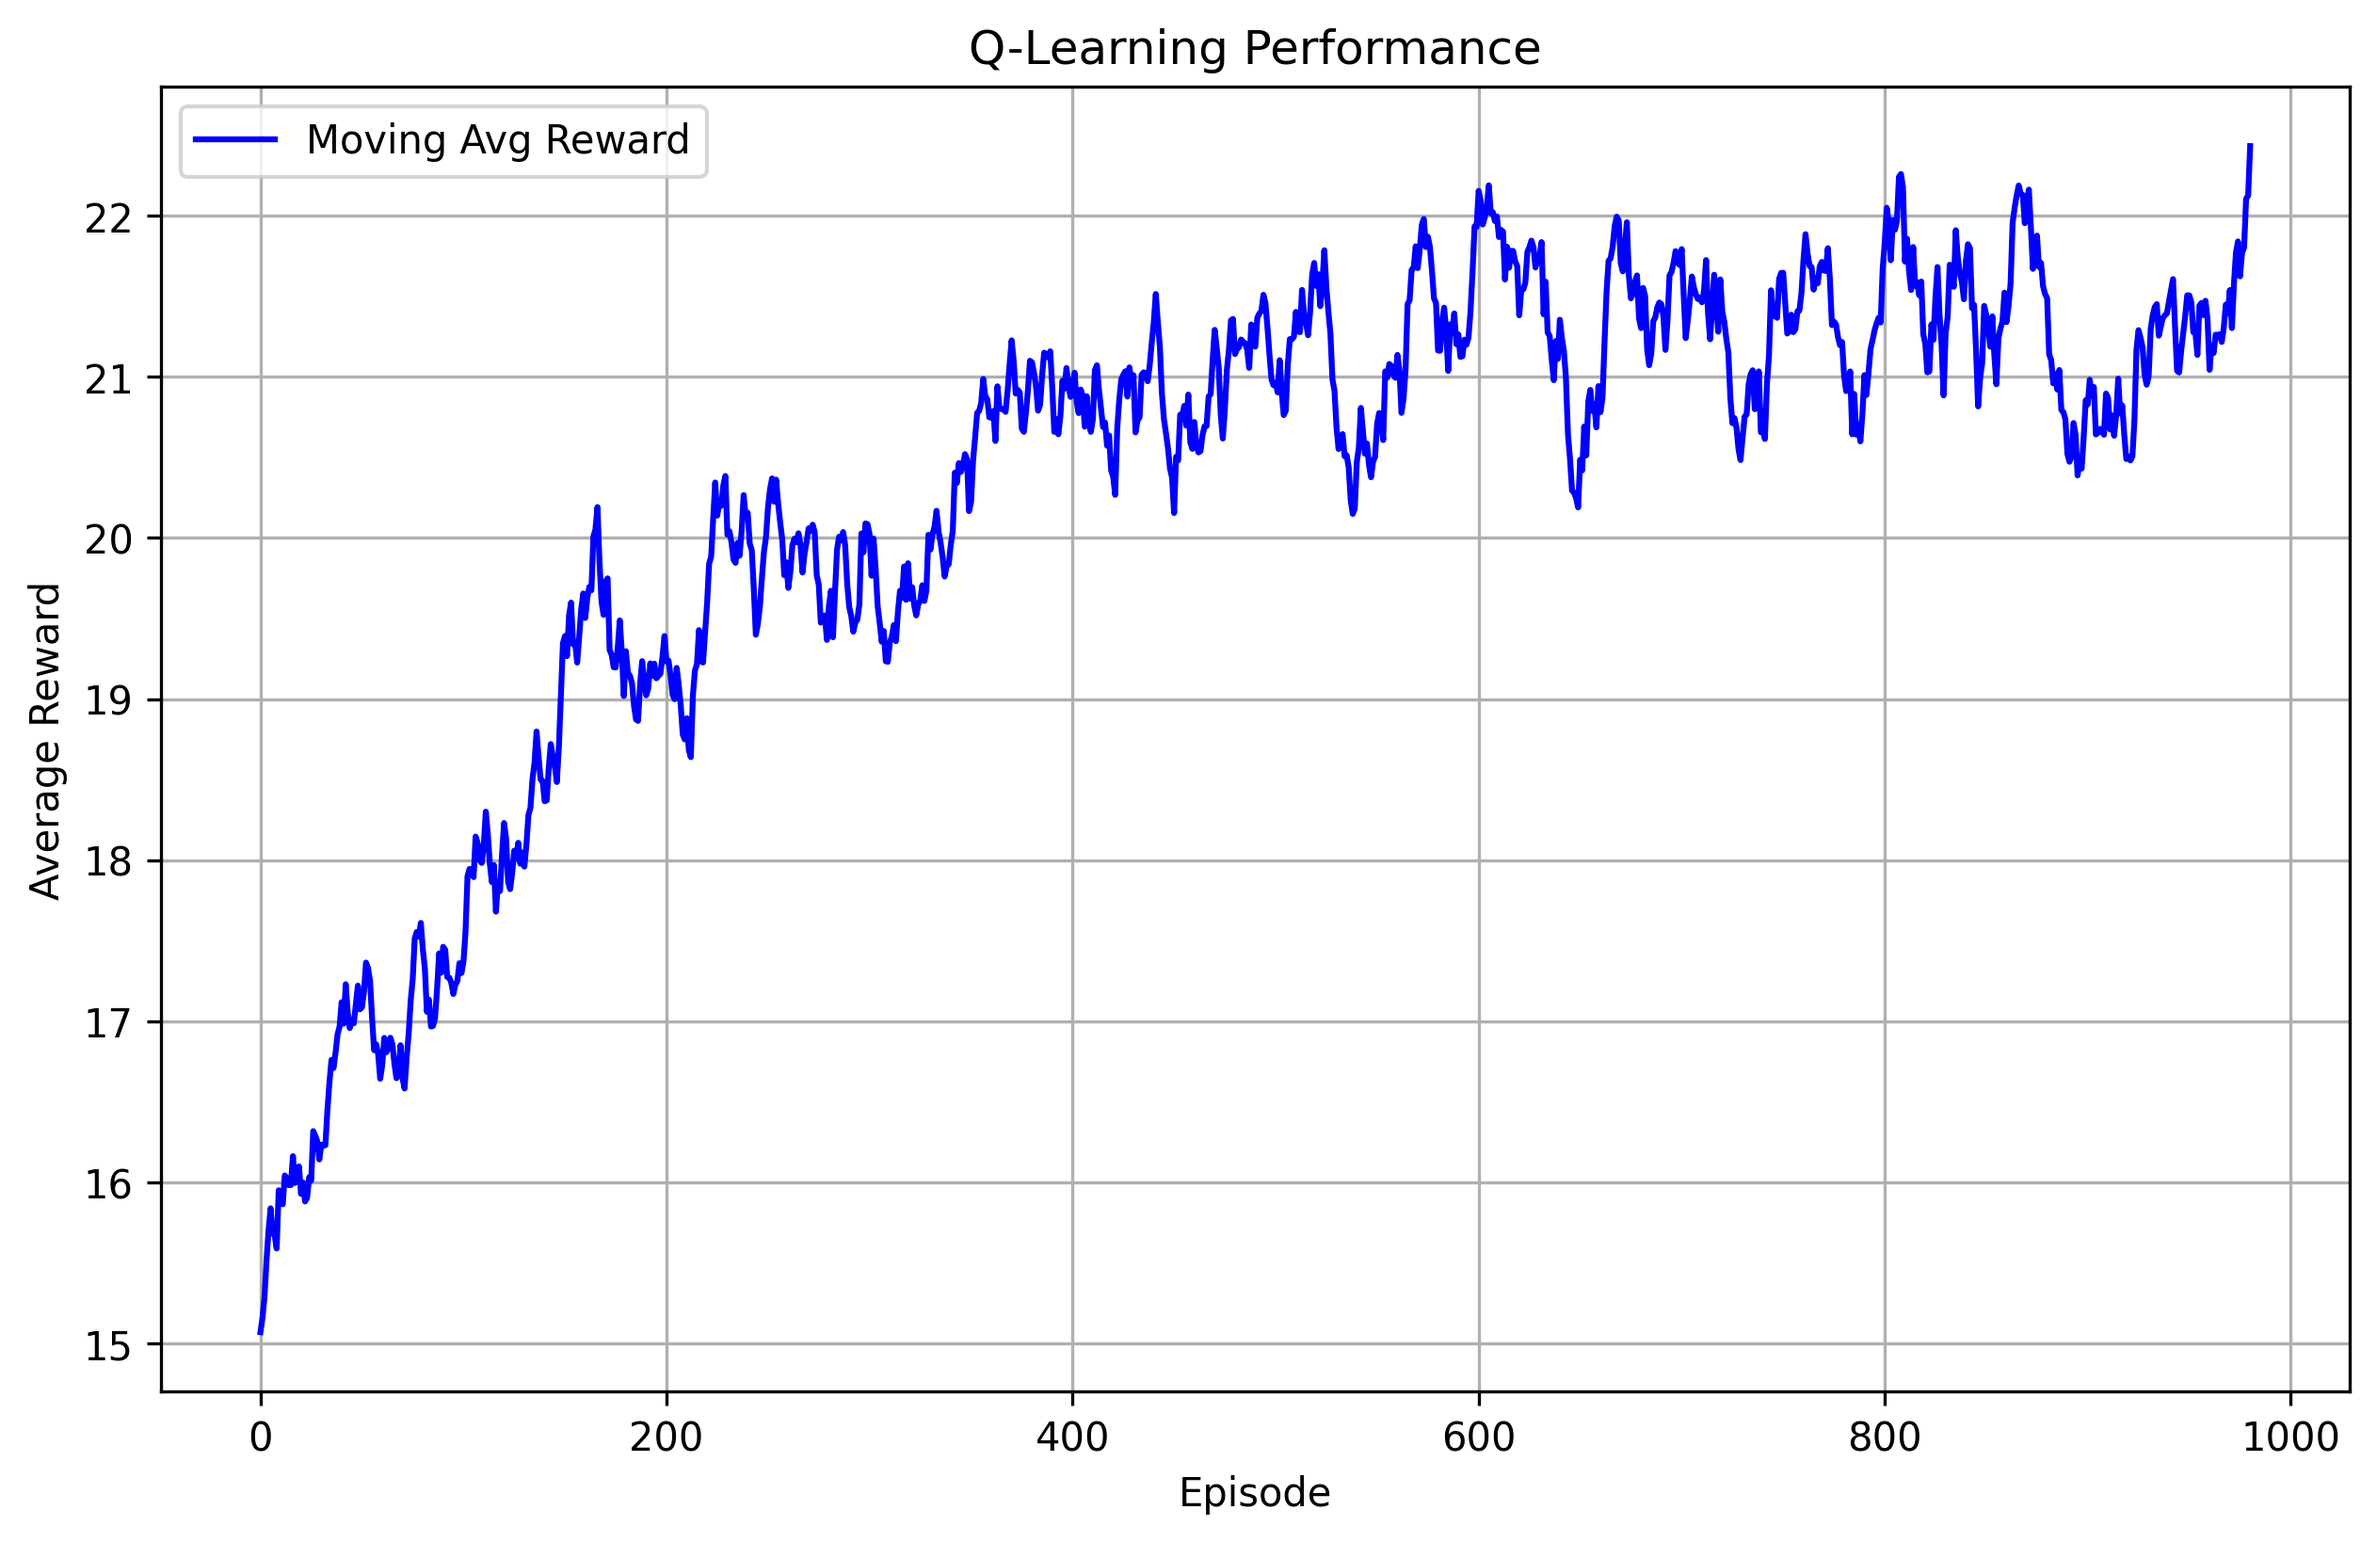
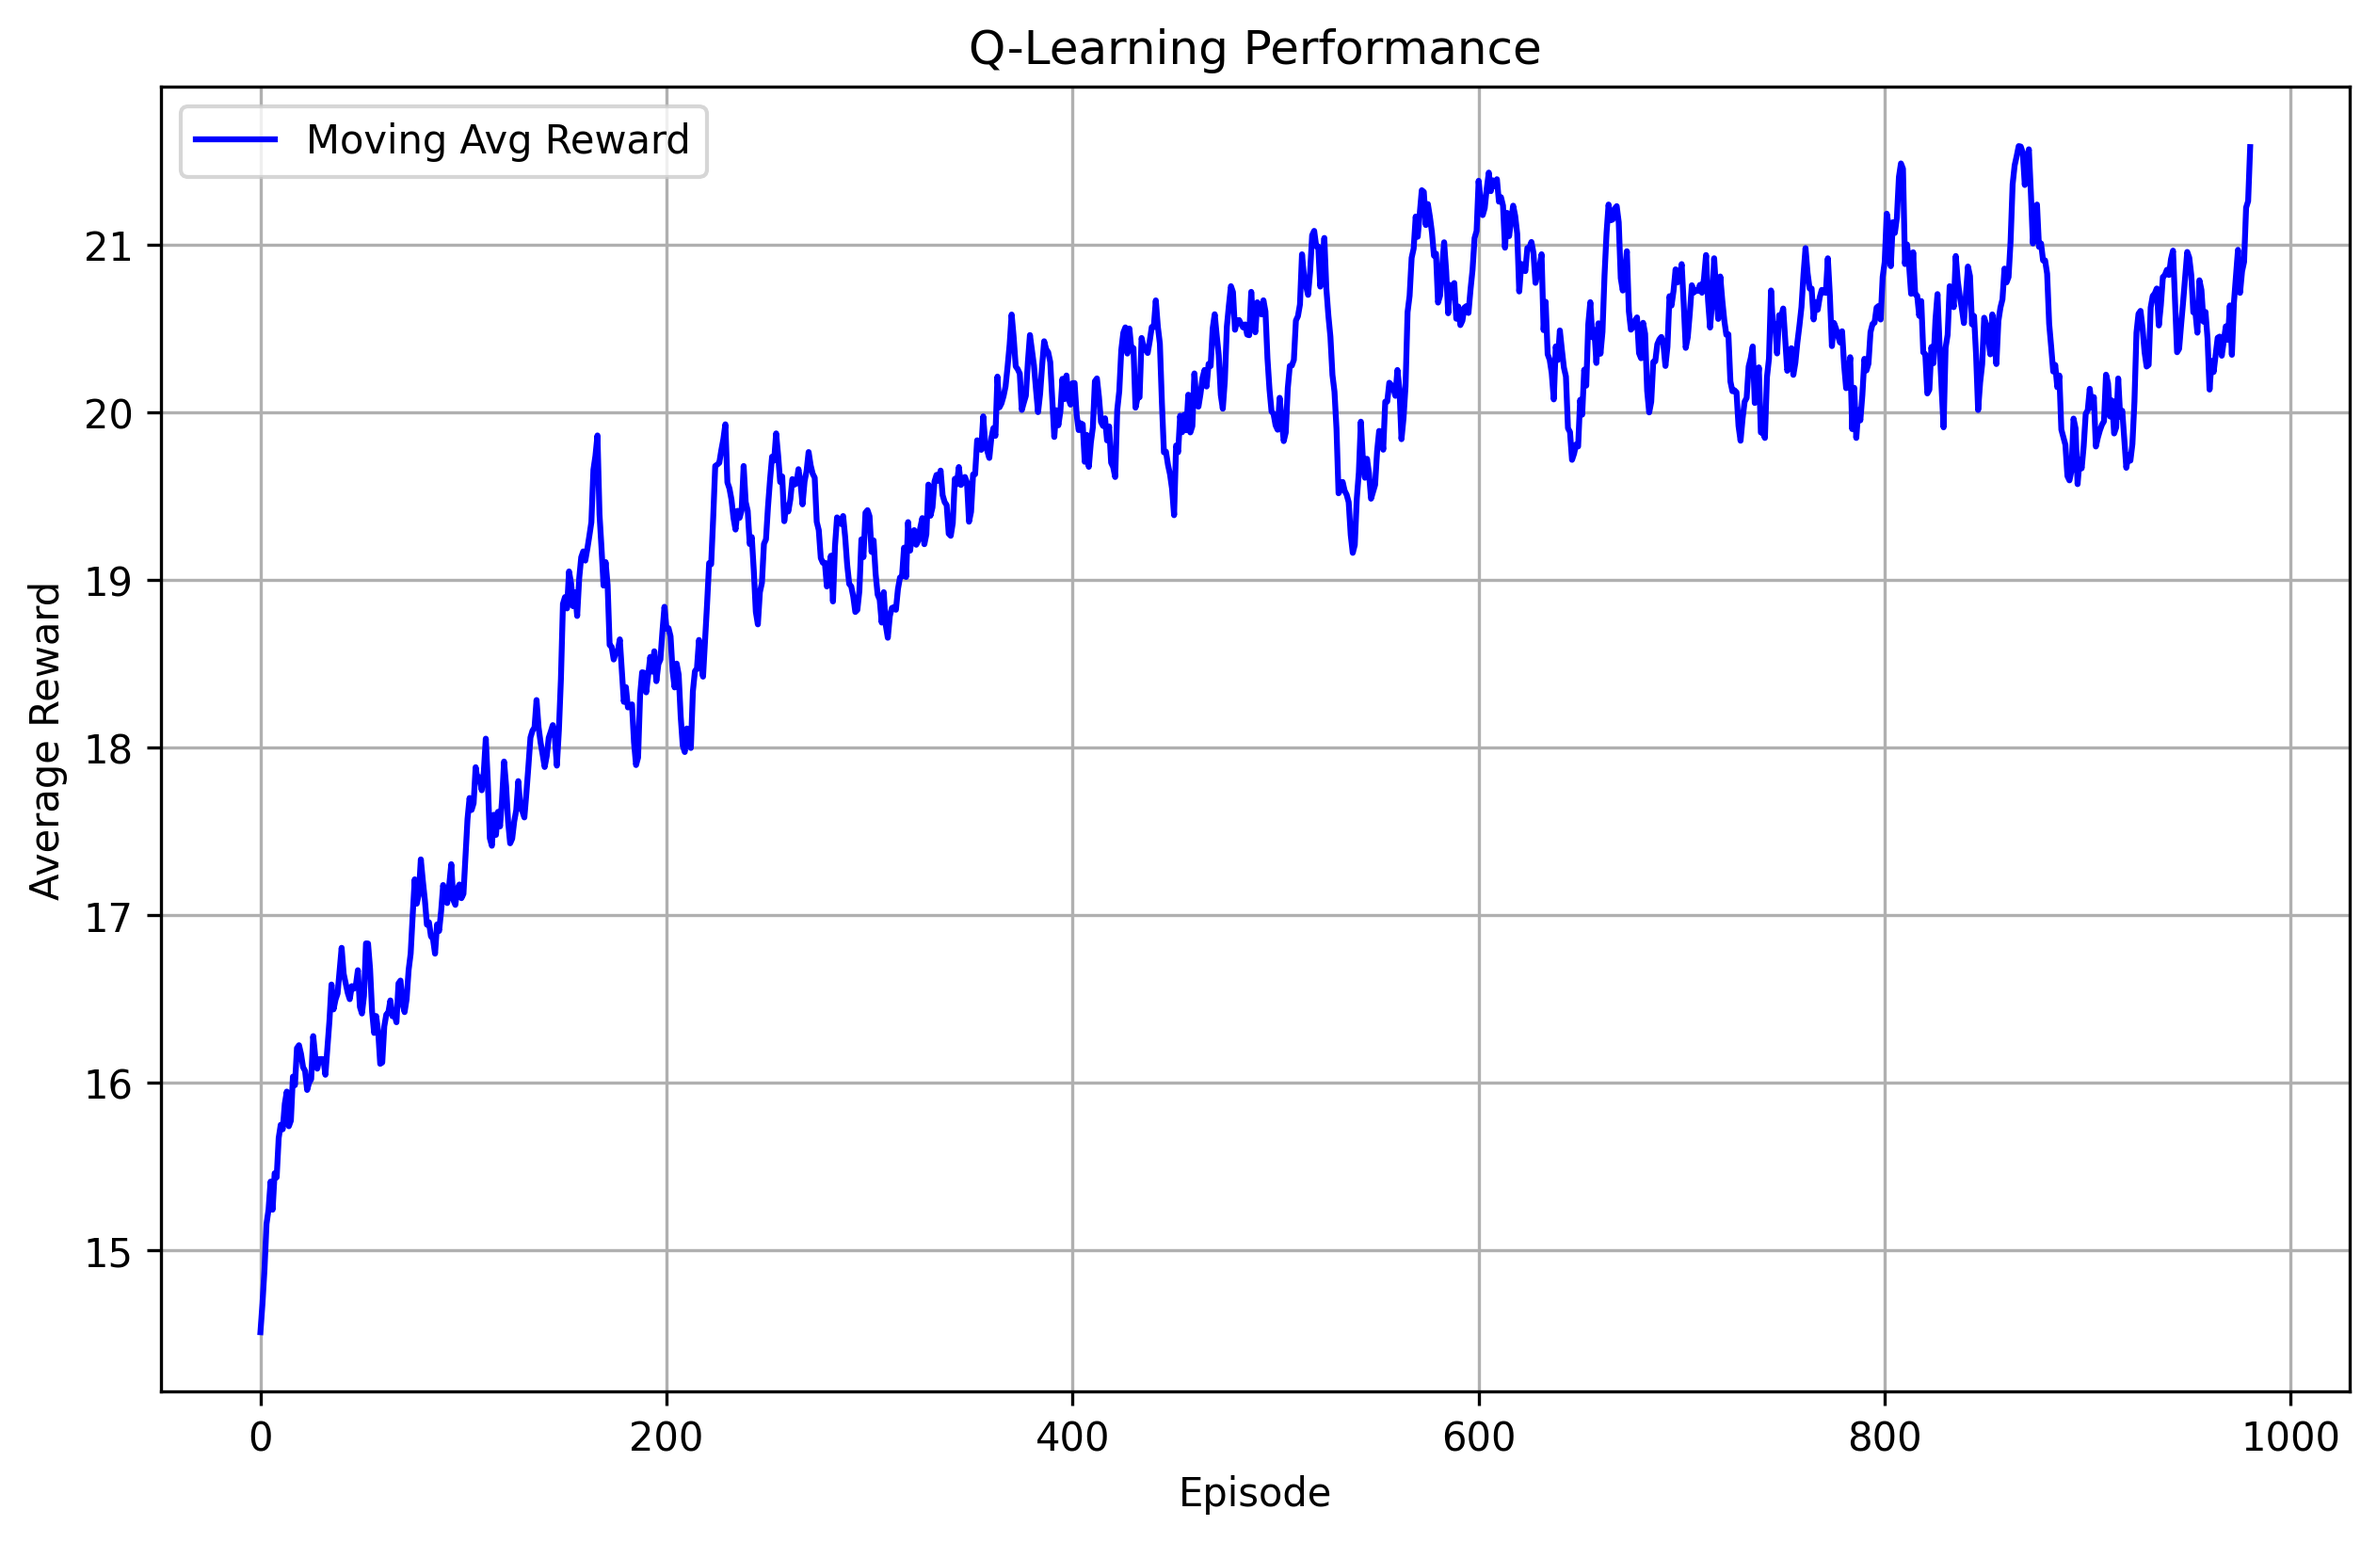
updated environment and Agent behaviour

diff --git a/singleLinEnv_DQN.py b/singleLinEnv_DQN.py
@@ -1,0 +1,63 @@
+import gymnasium as gym
+from gymnasium import spaces
+import numpy as np
+
+class DQN_Env(gym.Env):
+    """
+    DQN environment for wireless power control.
+    State: [channel_gain, interference] (continuous)
+    Action: discrete power levels
+    Reward: log2(1 + SINR) - penalty * power
+    """
+
+    def __init__(self, seed=42):
+        super().__init__()
+        # Discrete power levels
+        self.power_levels = np.array([0.1, 0.2, 0.3, 0.4, 0.5])
+        self.action_space = spaces.Discrete(len(self.power_levels))
+
+        # Continuous state space: channel gain and interference
+        self.observation_space = spaces.Box(
+            low=0.0,
+            high=1.0,
+            shape=(2,),
+            dtype=np.float32
+        )
+
+        # Environment parameters
+        self.noise = 0.1
+        self.lambda_pen = 0.2
+        self.seed = seed
+        self.np_random, _ = gym.utils.seeding.np_random(seed)
+
+        self.state = None  # placeholder for current state
+
+    def reset(self, seed=None, options=None):
+        if seed is not None:
+            self.np_random, _ = gym.utils.seeding.np_random(seed)
+
+        # Initialize channel gain and interference randomly
+        self.channel_gain = self.np_random.uniform(0.1, 1.0)
+        self.interference = self.np_random.uniform(0.1, 1.0)
+
+        self.state = np.array([self.channel_gain, self.interference], dtype=np.float32)
+        return self.state, {}
+
+    def step(self, action):
+        # Map action to power
+        power = self.power_levels[action]
+
+        # Compute SINR and reward
+        sinr = (power * self.channel_gain) / (self.interference + self.noise)
+        reward = np.log2(1 + sinr) - self.lambda_pen * power
+
+        # Update channel and interference randomly for next step
+        self.channel_gain = self.np_random.uniform(0.1, 1.0)
+        self.interference = self.np_random.uniform(0.1, 1.0)
+        self.state = np.array([self.channel_gain, self.interference], dtype=np.float32)
+
+        terminated = False  # continuous environment
+        truncated = False
+        info = {}
+
+        return self.state, reward, terminated, truncated, info

diff --git a/testScript.py b/testScript.py
@@ -40,7 +40,7 @@ epsilon = 1.0         # exploration rate
 epsilon_decay = 0.995
 epsilon_min = 0.01
 
-EPISODES = 500
+EPISODES = 1000
 MAX_STEPS = 50
 
 rewards_per_episode = []
@@ -97,7 +97,7 @@ plt.legend()
 save_dir = r"C:\Users\abdel\OneDrive\Desktop\Wireless Systems\DLRL-Power-Ctrl\simulationImages\Q-Learning"
 os.makedirs(save_dir, exist_ok=True)
 
-plot_path = os.path.join(save_dir, "Moving_Average_Reward_500_episodes.png")
+plot_path = os.path.join(save_dir, "Moving_Average_Reward_1000_episodes.png")
 plt.savefig(plot_path, dpi=300, bbox_inches="tight")
 plt.close()
 

diff --git a/AgentDQN.py b/AgentDQN.py
@@ -130,13 +130,16 @@ plt.plot(range(9, episodes), moving_avg_history, label="10-Ep Moving Avg", color
 plt.xlabel("Episode")
 plt.ylabel("Reward")
 plt.legend()
-plt.show()
 
 save_dir = r"C:\Users\abdel\OneDrive\Desktop\Wireless Systems\DLRL-Power-Ctrl\simulationImages\DQN"
 os.makedirs(save_dir, exist_ok=True)
 
 plot_path = os.path.join(save_dir, "DQN_model_500_episodes.png")
+
 plt.savefig(plot_path, dpi=300, bbox_inches="tight")
+
+plt.show()
+
 plt.close()
 
 print(f"Plot saved at: {plot_path}")
